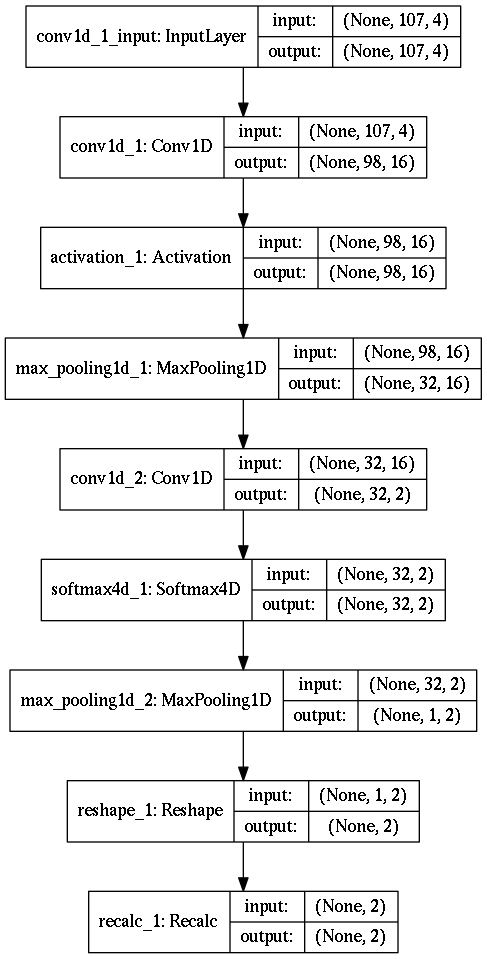
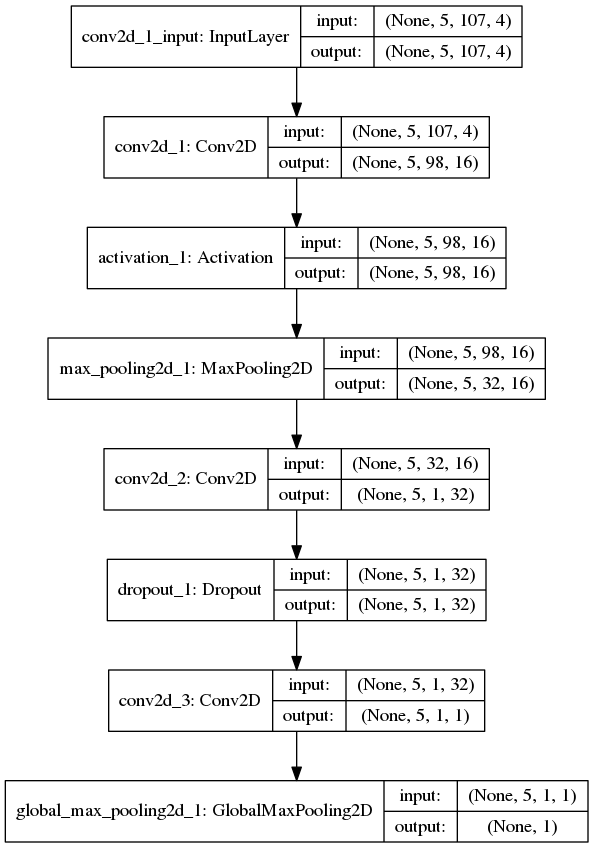
update multi instance and data

Changed region(s): [[0.0, 0.0, 1.0, 1.0], [0.0616, 0.5825, 0.0924, 0.6439]]

diff --git a/milCNN.py b/milCNN.py
@@ -8,11 +8,10 @@ from keras.layers.merge import Concatenate
 from keras.layers.normalization import BatchNormalization
 from keras.layers.advanced_activations import PReLU, LeakyReLU
 from keras.optimizers import SGD, RMSprop, Adadelta, Adagrad, Adam
-from keras.layers import normalization
-from keras.layers.convolutional import Convolution2D, MaxPooling2D
+from keras.layers import normalization, Lambda, GlobalMaxPooling2D
 from keras.layers import LSTM, Bidirectional, Reshape
 from keras.layers.embeddings import Embedding
-from keras.layers.convolutional import Convolution2D, MaxPooling2D,Conv1D, MaxPooling1D
+from keras.layers.convolutional import Conv2D, MaxPooling2D,Conv1D, MaxPooling1D
 from keras.callbacks import ModelCheckpoint, EarlyStopping
 from customlayers import Recalc, ReRank, ExtractDim, SoftReRank, ActivityRegularizerOneDim, RecalcExpand, Softmax4D
 from keras.constraints import maxnorm
@@ -26,13 +25,13 @@ _EPSILON = K.epsilon()
 import random
 import gzip
 import pickle
-import tensorflow as tf
-os.environ["CUDA_VISIBLE_DEVICES"]="1"
-from keras import backend as K
-config = tf.ConfigProto()
-config.gpu_options.allow_growth=True
-sess = tf.Session(config=config)
-K.set_session(sess)
+# import tensorflow as tf
+# os.environ["CUDA_VISIBLE_DEVICES"]="1"
+# from keras import backend as K
+# config = tf.ConfigProto()
+# config.gpu_options.allow_growth=True
+# sess = tf.Session(config=config)
+# K.set_session(sess)
 def padding_sequence_new(seq, max_len = 101, repkey = 'N'):
     seq_len = len(seq)
     new_seq = seq
@@ -229,6 +228,7 @@ def get_bag_data(data):
     bags = []
     seqs = data["seq"]
     labels = data["Y"]
+    longlen = 0
     for seq in seqs:
         #pdb.set_trace()
         bag_seqs = split_overlap_seq(seq)
@@ -237,21 +237,18 @@ def get_bag_data(data):
         for bag_seq in bag_seqs:
             tri_fea = get_RNA_concolutional_array(bag_seq)
             bag_subt.append(tri_fea)
-        '''
-        if len(bag_subt) >5:
-            bag_subt = bag_subt[:5]
-        if len(bag_subt) <5:
-            rand_more = 5 - len(bag_subt)
-            for ind in range(rand_more):
-                bag_subt.append(random.choice(bag_subt))
-        '''
-        bags.append(np.array(bag_subt))
-    
-        
-    return bags, labels
-    #for data in pairs.iteritems():
-    #    ind1 = trids.index(key)
-    #    emd_weight1 = embedding_rna_weights[ord_dict[str(ind1)]]
+        data = np.array(bag_subt)
+        if longlen < data.shape[0]:
+            longlen = data.shape[0]
+        # print(data.shape, type(data.shape))
+        bags.append(data) #np.reshape(data, [1]+list(data.shape)))
+    padbags = []
+    for data in bags:
+        paddata = np.zeros([longlen]+list(data.shape[1:]))
+        paddata[:data.shape[0], :, :] = np.array(data)
+        paddata = np.reshape(paddata, [1]+list(paddata.shape))
+        padbags.append(paddata)
+    return padbags, labels # bags,
 
 def mil_squared_error(y_true, y_pred):
     return K.tile(K.square(K.max(y_pred) - K.max(y_true)), 5)
@@ -277,25 +274,20 @@ def custom_objective(y_true, y_pred):
     cce = - (y_true * K.log(y_new+logEps) + (1 - y_true)* K.log(1-y_new + logEps))
     return cce
 
-def set_cnn_model(input_dim = 4, input_length = 107):
+def set_cnn_model(ninstance=4, input_dim = 4, input_length = 107):
     nbfilter = 16
-    model = Sequential()
+    model = Sequential() # #seqs * seqlen * 4
     #model.add(brnn)
-    model.add(Conv1D(input_shape=(input_length, input_dim),
+    model.add(Conv2D(input_shape=(ninstance, input_length, input_dim),
                             filters=nbfilter,
-                            kernel_size=10,
+                            kernel_size=(1,10),
                             padding="valid",
                             #activation="relu",
                             strides=1))
     model.add(Activation('relu'))
-    model.add(MaxPooling1D(pool_size=3)) # 32 16
-    ''' add multi instance learning '''
-    model.add(Conv1D(filters=2, kernel_size=1, padding='valid', strides=1)) # 32 2, 2 is the number of classes
-    model.add(Softmax4D(axis=-1)) # 32 2 
-    model.add(MaxPooling1D(pool_size=32)) # 1 2
-    model.add(Reshape(target_shape=(2,))) # 2
-    model.add(Recalc(axis=-1)) # 2
-    # model.add(ExtractDim())
+    model.add(MaxPooling2D(pool_size=(1,3))) # 32 16
+    # model.add(Dropout(0.25)) # will be better
+    model.add(Conv2D(filters=nbfilter*2, kernel_size=(1,32), padding='valid', activation='relu', strides=1))
     # model.add(Flatten())
     #model.add(Softmax4D(axis=1))
 
@@ -303,12 +295,10 @@ def set_cnn_model(input_dim = 4, input_length = 107):
     #model.add(Flatten())
     #model.add(Recalc(axis=1))
     # model.add(Flatten())
-    # model.add(Dropout(0.5))
     # model.add(Dense(nbfilter*2, activation='relu'))
-    # model.add(Dropout(0.5))
-
+    model.add(Dropout(0.25))
+    model.add(Conv2D(filters=1, kernel_size=(1,1), padding='valid', activation='sigmoid', strides=1))
     return model
-
         
 def get_all_embedding(protein):
     
@@ -322,8 +312,9 @@ def get_all_embedding(protein):
     return train_bags, label, test_bags, true_y
 
 def run_network(model, total_hid, train_bags, test_bags, y_bags):
-    # model.add(Dense(1))
-    # model.add(Activation('softmax'))
+    # model.add(Dense(1)) # binary classification
+    # model.add(Activation('softmax')) # #instance * 2
+    model.add(GlobalMaxPooling2D()) # max pooling multi instance 
 
     model.summary()
     savemodelpng = 'net.png'
@@ -332,7 +323,7 @@ def run_network(model, total_hid, train_bags, test_bags, y_bags):
     #categorical_crossentropy, binary_crossentropy, mil_squared_error
     #sgd = SGD(lr=0.01, decay=1e-6, momentum=0.9, nesterov=True) 
     #model.compile(loss=mil_squared_error, optimizer='rmsprop') 
-    #print 'model training'
+    # print 'model training'
     #nb_epos= 5
     #model.fit(train_bags, y_bags, batch_size = 60, epochs=nb_epos, verbose = 0)
     
@@ -350,10 +341,12 @@ def run_network(model, total_hid, train_bags, test_bags, y_bags):
             tmp_size = len(training)
             #pdb.set_trace()
             #ys = np.array(tmp_size *[y]) # make the labels in the bag all have the same labels, maybe not correct?
-            ys = np.zeros((tmp_size,2))
-            ys[:, y] = 1  # binary class ############################################################################### one hot encoding
+            # ys = np.zeros((tmp_size,2))
+            # ys[:, y] = 1  # binary class ############################################################################### one hot encoding
             # ys = y*np.ones((4,))   #  I do not understand the correspondence of ys and tarining, need to confirm  ####
-            model.fit(training, ys, batch_size = tmp_size, epochs=1, verbose = 0)
+            # trainingreshap = np.reshape(training, (1, training.shape[0], training.shape[1], training.shape[2]))
+            # print(training.shape, y.shape)
+            model.fit(training, y*np.ones((1,1)), batch_size = tmp_size, epochs=1, verbose = 0)
         model.reset_states()
             #ys = np_utils.to_categorical(ys)
             #model.train_on_batch(training, ys)
@@ -375,7 +368,8 @@ def run_milcnn():
         print protein
         fw.write(protein + '\t')
         train_bags, train_labels, test_bags, test_labels = get_all_embedding(protein)
-        net =  set_cnn_model()
+        print(train_bags[0].shape, train_labels[0])
+        net =  set_cnn_model(ninstance=train_bags[0].shape[1])
         
         #seq_auc, seq_predict = calculate_auc(seq_net)
         hid = 16

diff --git a/README.md b/README.md
@@ -1,11 +1,3 @@
 # milVec
 
 Download the trainig and testing data from http://www.bioinf.uni-freiburg.de/Software/GraphProt/GraphProt_CLIP_sequences.tar.bz2 and compress it in current dir.
-
-All rights reserved. 
-
-Wentao Zhu http://www.escience.cn/people/zhuwentao/index.html
-
-Xiaoyong Pan https://xypan1232.github.io/
-
-Based on keras 2.0.3.
